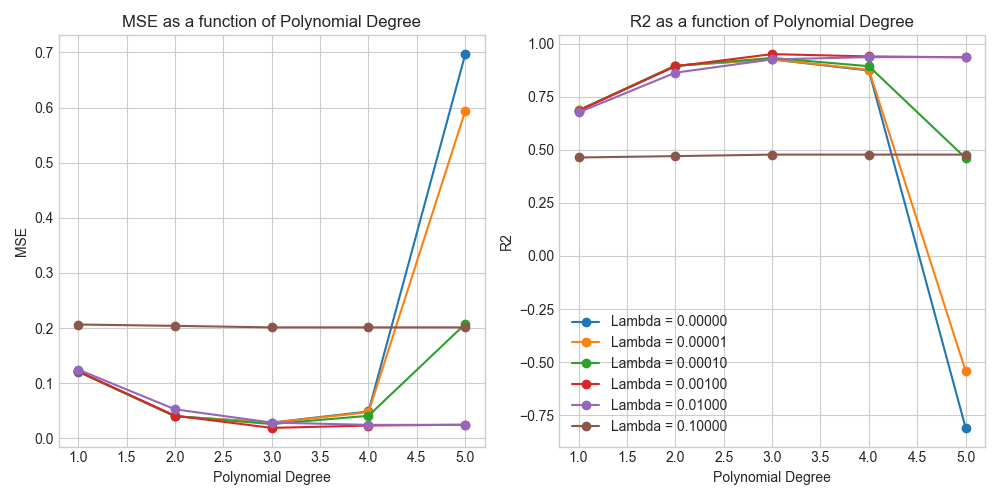
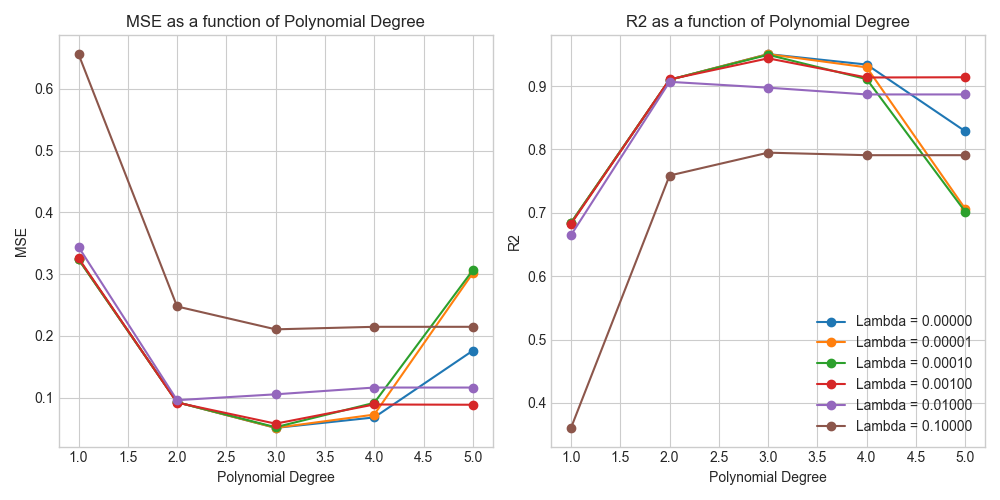
almost standardized data set, expect e

diff --git a/src/load_data.py b/src/load_data.py
@@ -5,7 +5,7 @@ from sklearn.model_selection import train_test_split
 
 """ File creating dataset so we use the same throughout the project"""
 
-def load_normal_data(N_samples: int= 100, noise:float = 0.1, seed:int = 42):
+def load_normal_data(N_samples: int= 100, noise:float = 0.1, seed:int = 2024):
     np.random.seed(seed)
     x = np.random.rand(N_samples)
     y = np.random.randn(N_samples)
